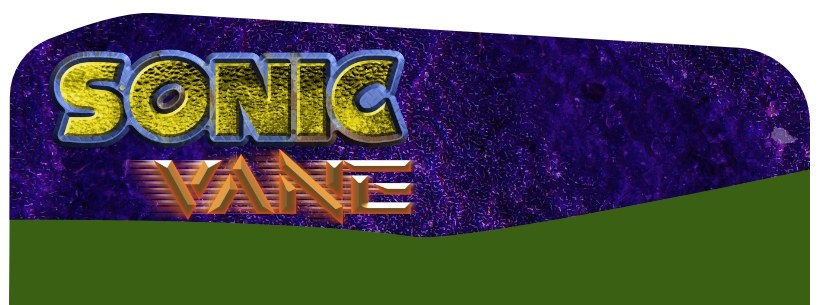
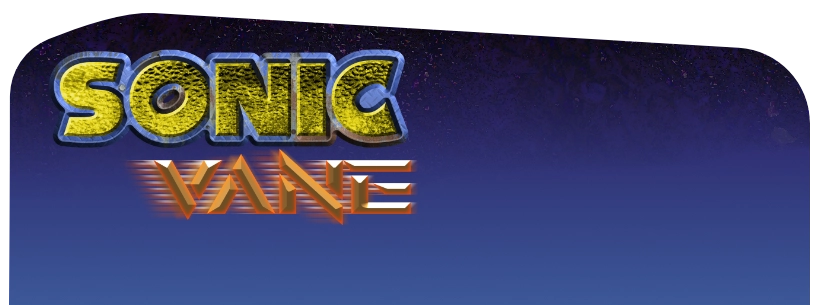
Updated the look of the site but also some files about the site.

diff --git a/public/css/main.css b/public/css/main.css
@@ -6,8 +6,12 @@
 }
 
 body {
-  background-color: #bbaca5;
+  background-image: linear-gradient(to bottom, #4b7fd8, #16243f);
+  background-color: #16243f;
   background-repeat: repeat-x;
+  background-size:auto,cover;
+  background-position:top left, center;
+  background-attachment:scroll,fixed;
   padding: 0;
   margin: 0;
   font-family: Arial, Helvetica, sans-serif;
@@ -19,7 +23,7 @@ body {
   text-align: left;
   font-family: Arial, Helvetica, sans-serif;
   font-size: 14px;
-  color: #000000;
+  color: #FEFEFE;
   padding: 0;
   margin: 0 auto;   /* centres the 820px block in the viewport */
   position: relative;
@@ -42,7 +46,7 @@ body {
 /* ─── Two-column band ─── */
 #centerBG {
   width: 820px;
-  background-color: #3d3530;
+  background-color: #3C5898;
   background-repeat: repeat-y;
   margin: 0;
   padding: 0;
@@ -64,7 +68,7 @@ body {
   padding-left: 36px;
   padding-top: 28px;
   padding-bottom: 24px;
-  color: #d4d4d4;
+  color: #FEFEFE;
   font-family: Arial, Helvetica, sans-serif;
 }
 
@@ -100,7 +104,7 @@ body {
 }
 
 #changelogWidget p {
-  color: #595349;
+  color: #9CB2CE;
   font-size: 13px;
   font-weight: bold;
   margin: 0;
@@ -118,7 +122,7 @@ ul.changelogList {
   margin: 4px 0 0 0;
   padding-left: 16px;
   font-size: 12px;
-  color: #c9c0b8;
+  color: #FEFEFE;
 }
 
 ul.changelogList li {
@@ -126,7 +130,7 @@ ul.changelogList li {
 }
 
 #blogOptions p {
-  color: #595349;
+  color: #9CB2CE;
   font-size: 13px;
   font-weight: bold;
   margin: 0;
@@ -158,7 +162,7 @@ ul.changelogList li {
   height: 10px;
   margin: 0;
   padding: 0;
-  background: linear-gradient(to bottom, #3d3530, #2a2521);
+  background: linear-gradient(to bottom, #3C5898, #29487D);
 }
 
 /* Shadow strip: footer -> page bg */
@@ -168,12 +172,12 @@ ul.changelogList li {
   height: 10px;
   margin: 0;
   padding: 0;
-  background: linear-gradient(to bottom, #2a2521, #bbaca5);
+  background: linear-gradient(to bottom, #29487D, #1e3560);
 }
 
 /* ─── Footer bar ─── */
 #footer {
-  background-color: #2a2521;
+  background-color: #29487D;
   width: 100%;
   min-height: 60px;
   display: flex;
@@ -197,7 +201,7 @@ ul.changelogList li {
 
 #copyright {
   flex: 1;
-  color: #a3a3a3;
+  color: #FEFEFE;
   font-size: 10px;
   text-align: right;
   padding-right: 20px;
@@ -206,7 +210,7 @@ ul.changelogList li {
 
 /* ─── Typography ─── */
 h1 {
-  color: #ebebeb;
+  color: #FEFEFE;
   font-size: 18px;
   font-weight: bold;
   font-family: Arial, Helvetica, sans-serif;
@@ -215,7 +219,7 @@ h1 {
 }
 
 h2 {
-  color: #898989;
+  color: #D4D8E8;
   font-size: 14px;
   font-weight: normal;
   font-family: Arial, Helvetica, sans-serif;
@@ -224,7 +228,7 @@ h2 {
 }
 
 p {
-  color: #d4d4d4;
+  color: #FEFEFE;
   font-size: 14px;
   font-weight: normal;
   font-family: Arial, Helvetica, sans-serif;
@@ -233,7 +237,7 @@ p {
 }
 
 #leftContainer p {
-  color: #d4d4d4;
+  color: #FEFEFE;
   font-size: 14px;
   line-height: 20px;
   padding: 0;
@@ -242,7 +246,7 @@ p {
 
 /* ─── Post / content links ─── */
 a.postLink {
-  color: #129e58;
+  color: #9CB2CE;
   font-size: 18px;
   font-weight: bold;
   font-family: Arial, Helvetica, sans-serif;
@@ -250,11 +254,11 @@ a.postLink {
 }
 
 a.postLink:hover {
-  color: #7ae9b1;
+  color: #D4D8E8;
 }
 
 a.standardLink {
-  color: #129e58;
+  color: #9CB2CE;
   font-size: 14px;
   font-weight: bold;
   font-family: Arial, Helvetica, sans-serif;
@@ -262,11 +266,11 @@ a.standardLink {
 }
 
 a.standardLink:hover {
-  color: #7ae9b1;
+  color: #D4D8E8;
 }
 
 .dateText {
-  color: #faeac9;
+  color: #D4D8E8;
   font-size: 14px;
   font-weight: normal;
   text-decoration: none;
@@ -274,7 +278,7 @@ a.standardLink:hover {
 
 /* ─── Blog caption (italic sub-text) ─── */
 .blogCaption {
-  color: #d4d4d4;
+  color: #FEFEFE;
   font-size: 14px;
   font-weight: bold;
   font-style: italic;
@@ -293,7 +297,7 @@ a.standardLink:hover {
 
 /* ─── Lists ─── */
 ul {
-  color: #ababab;
+  color: #FEFEFE;
   font-size: 14px;
   font-family: Arial, Helvetica, sans-serif;
   list-style-type: disc;
@@ -317,7 +321,7 @@ li {
 
 .pagination a,
 .pagination span {
-  color: #faeac9;
+  color: #9CB2CE;
   font-weight: bold;
   text-decoration: none;
   font-family: Arial, Helvetica, sans-serif;
@@ -325,9 +329,9 @@ li {
 }
 
 .pagination a:hover {
-  color: #ffffff;
+  color: #D4D8E8;
 }
 
 .pagination .active span {
-  color: #898989;
+  color: #D4D8E8;
 }

diff --git a/public/categories/index.html b/public/categories/index.html
@@ -24,11 +24,42 @@
 <div id="rightContainer">
 
   
+  
+  
+  
+  
+  
+  
+  
+
+  
+    
+    
+    
+    
+    
+    
+  
+
+  
   <div id="getNowbtn">
     <a href="#">
       <img src="/images/getnow.webp" alt="Get It Now!" name="getNow" width="259" height="53" border="0">
     </a>
   </div>
+
+  
+  
+  <div id="changelogWidget">
+    <p>Latest Changelog</p>
+    <div class="rightHR"><img src="/images/hr.gif" width="252" height="1" border="0"></div>
+    <div id="changelogContent">
+      
+        <span class="dateText">No Change Log</span>
+      
+    </div>
+  </div>
+  
 
   <div id="blogOptions">
 

diff --git a/public/posts/index.html b/public/posts/index.html
@@ -24,11 +24,42 @@
 <div id="rightContainer">
 
   
+  
+  
+  
+  
+  
+  
+  
+
+  
+    
+    
+    
+    
+    
+    
+  
+
+  
   <div id="getNowbtn">
     <a href="#">
       <img src="/images/getnow.webp" alt="Get It Now!" name="getNow" width="259" height="53" border="0">
     </a>
   </div>
+
+  
+  
+  <div id="changelogWidget">
+    <p>Latest Changelog</p>
+    <div class="rightHR"><img src="/images/hr.gif" width="252" height="1" border="0"></div>
+    <div id="changelogContent">
+      
+        <span class="dateText">No Change Log</span>
+      
+    </div>
+  </div>
+  
 
   <div id="blogOptions">
 

diff --git a/public/tags/index.html b/public/tags/index.html
@@ -24,11 +24,42 @@
 <div id="rightContainer">
 
   
+  
+  
+  
+  
+  
+  
+  
+
+  
+    
+    
+    
+    
+    
+    
+  
+
+  
   <div id="getNowbtn">
     <a href="#">
       <img src="/images/getnow.webp" alt="Get It Now!" name="getNow" width="259" height="53" border="0">
     </a>
   </div>
+
+  
+  
+  <div id="changelogWidget">
+    <p>Latest Changelog</p>
+    <div class="rightHR"><img src="/images/hr.gif" width="252" height="1" border="0"></div>
+    <div id="changelogContent">
+      
+        <span class="dateText">No Change Log</span>
+      
+    </div>
+  </div>
+  
 
   <div id="blogOptions">
 

diff --git a/public/index.html b/public/index.html
@@ -110,7 +110,7 @@
     <h2>October 5, 2026 - Wingzzzzy</h2>
     <br>
     <p>
-      <p>This blog will have updates and fun facts about the fan game while you are here click on the big Get Sonic VANE now! button to get the game.</p>
+      <p>This blog will have updates and fun facts about the fan game while you are here click on the big Get current build! button to get the game.</p>
 
     </p>
     <br><br>

diff --git a/public/posts/blogwelcome/index.html b/public/posts/blogwelcome/index.html
@@ -109,7 +109,7 @@
 <h2>October 5, 2026 - Wingzzzzy</h2>
 <br>
 <p>
-  <p>This blog will have updates and fun facts about the fan game while you are here click on the big Get Sonic VANE now! button to get the game.</p>
+  <p>This blog will have updates and fun facts about the fan game while you are here click on the big Get current build! button to get the game.</p>
 
 </p>
 <br><br>

diff --git a/themes/hugo-theme-tf2/static/css/main.css b/themes/hugo-theme-tf2/static/css/main.css
@@ -6,8 +6,12 @@
 }
 
 body {
-  background-color: #29487D;
+  background-image: linear-gradient(to bottom, #4b7fd8, #16243f);
+  background-color: #16243f;
   background-repeat: repeat-x;
+  background-size:auto,cover;
+  background-position:top left, center;
+  background-attachment:scroll,fixed;
   padding: 0;
   margin: 0;
   font-family: Arial, Helvetica, sans-serif;

diff --git a/content/posts/blogwelcome.md b/content/posts/blogwelcome.md
@@ -4,4 +4,4 @@ draft = false
 title = 'Welcome to the Official Sonic VANE Blog.'
 author = 'Wingzzzzy'
 +++
-This blog will have updates and fun facts about the fan game while you are here click on the big Get Sonic VANE now! button to get the game.
+This blog will have updates and fun facts about the fan game while you are here click on the big Get current build! button to get the game.
